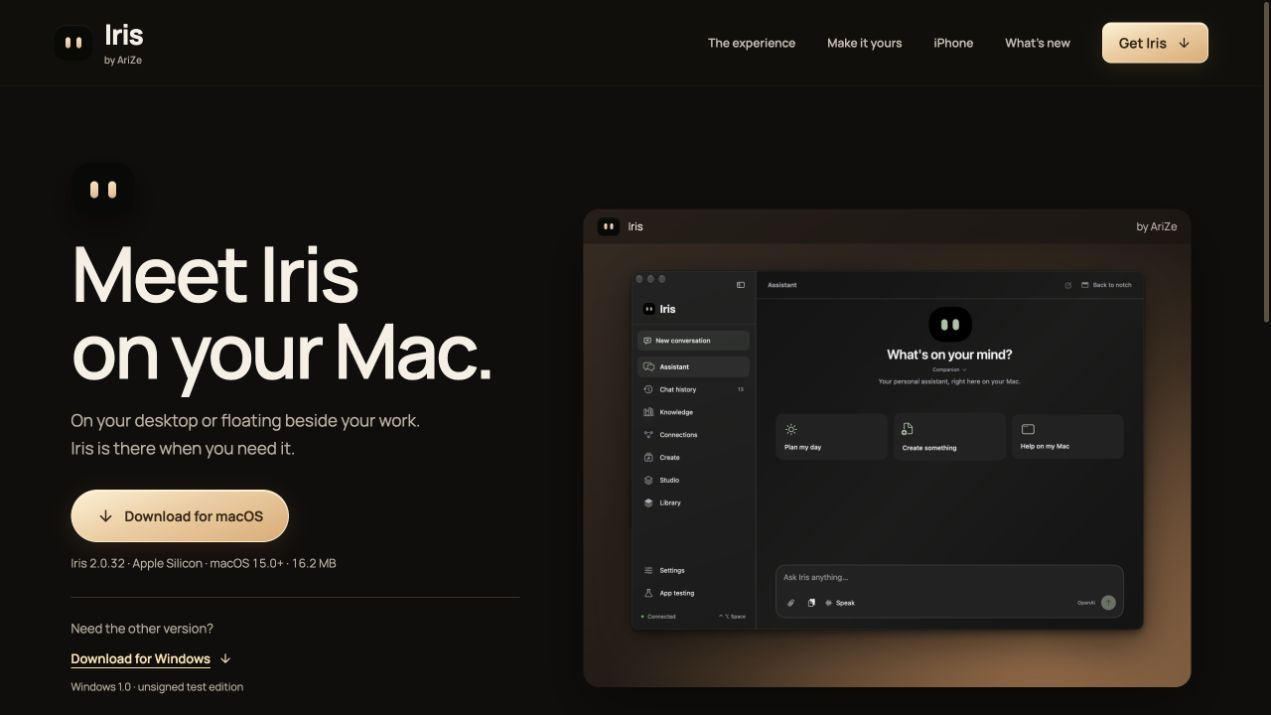
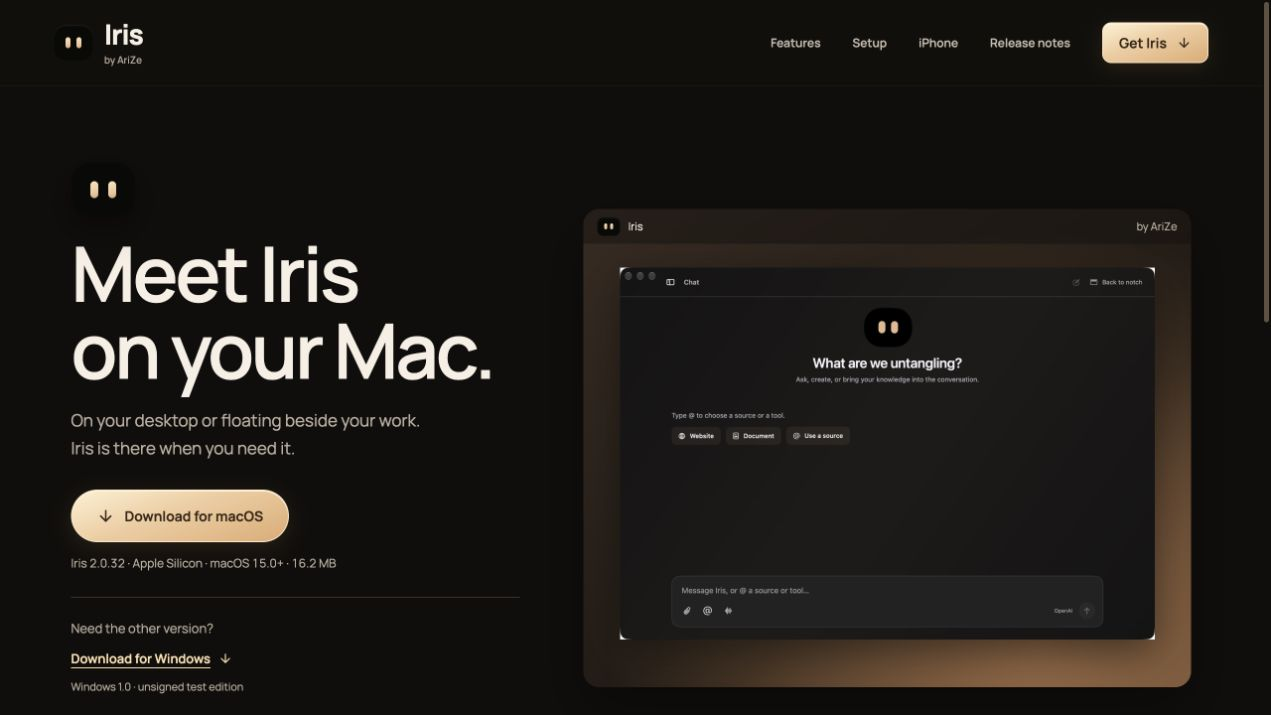
Refresh README with live Iris website screenshots

diff --git a/README.md b/README.md
@@ -8,15 +8,19 @@ The official Iris website: homepage, device-aware downloads, separate Mac/Window
 
 ### Homepage
 
-![Homepage](docs/screenshots/homepage.jpg)
+![Iris homepage with the floating avatar and warm dark theme](docs/screenshots/homepage.jpg)
+
+### Interactive feature tour
+
+![The homepage feature tour showing Iris in the Mac notch](docs/screenshots/feature-tour.jpg)
 
 ### Downloads
 
-![Downloads](docs/screenshots/downloads.jpg)
+![Iris download page with macOS and Windows options](docs/screenshots/downloads.jpg)
 
 ### Release notes
 
-![Release notes](docs/screenshots/release-notes.jpg)
+![Iris release notes with macOS and Windows tabs](docs/screenshots/release-notes.jpg)
 
 ## Development
 
